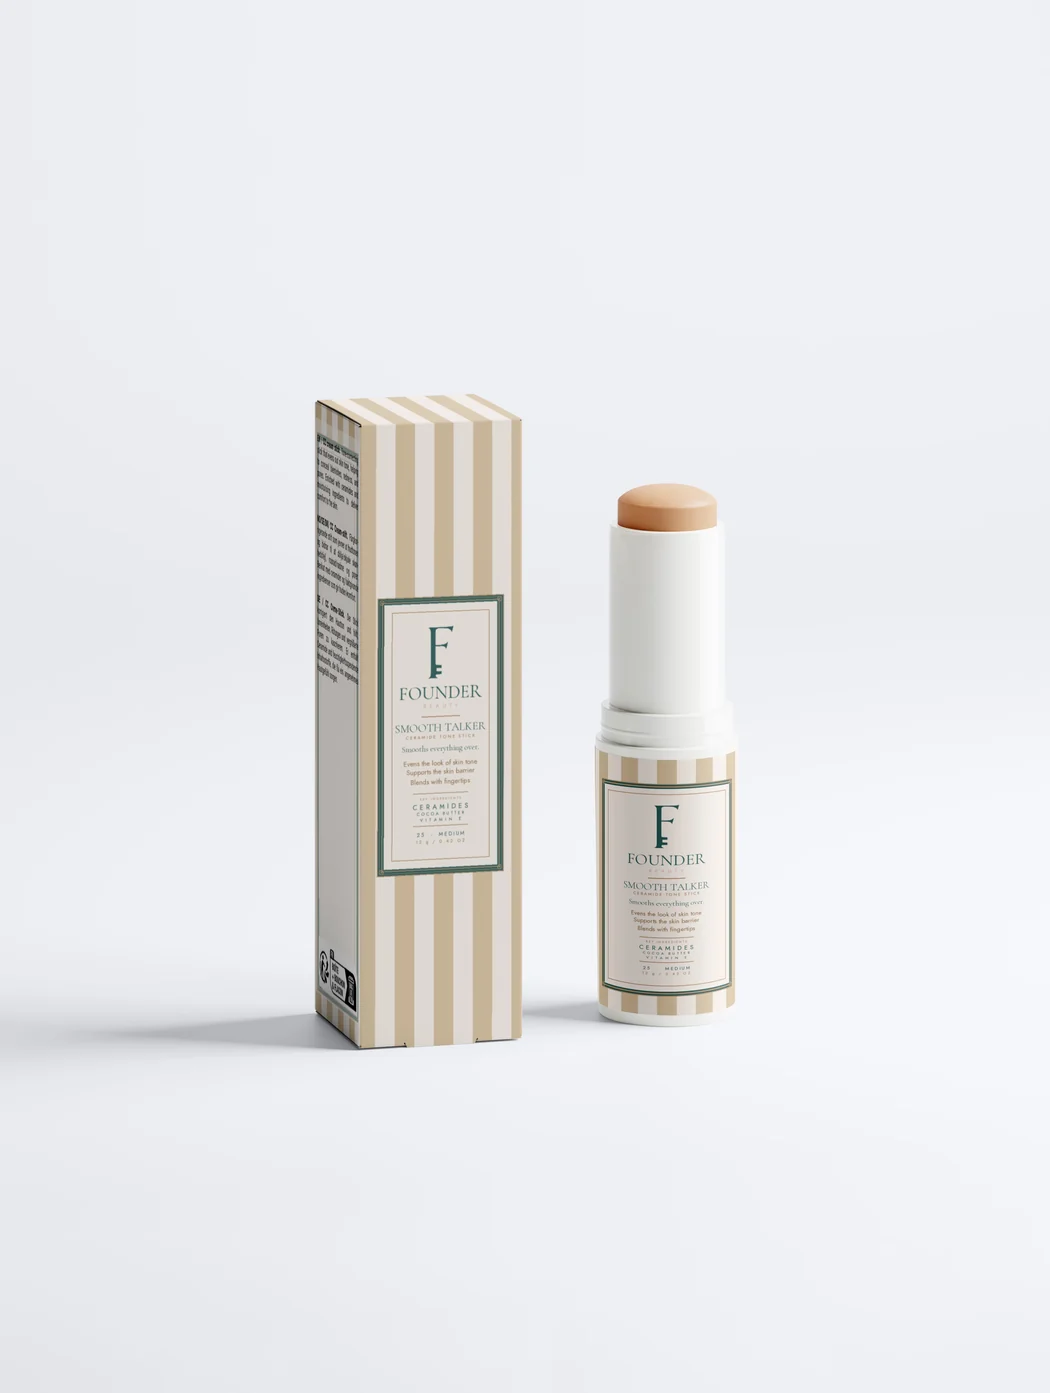
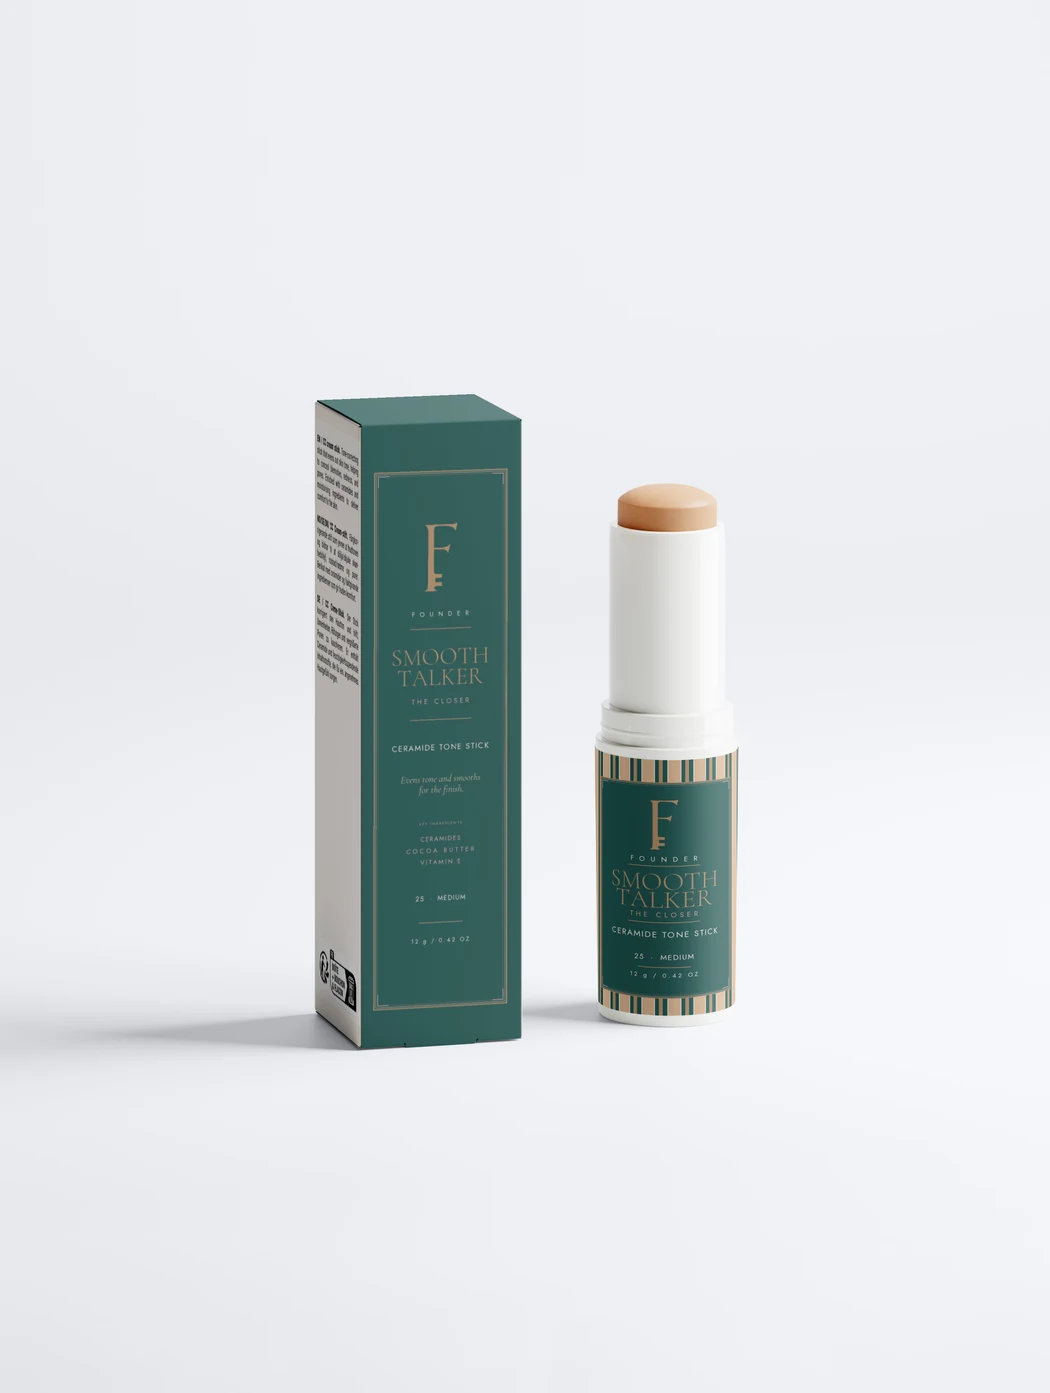
The Room, realigned: every brand face square on its front panel
Selfnamed's studio draws a front-face guide on each artboard. Reading it
off the live DOM showed every bottle lands at ~26.5% of the wrap — and
that HOLD THE ROOM's plaque sat 163 px right of its guide, 7% of the
circumference, about 26 degrees of rotation on the masterpiece. Every
plaque is now centred on its own guide to within a pixel.

Three things fell out of the same audit:

- HOLD THE ROOM's name is set HOLD / THE / ROOM. caps_lines fits a name
  by its widest line, so "THE ROOM" dragged the whole name to 4.0 mm
  against 5.5 mm on its two siblings. Three lines reach 4.9 mm in the
  same plaque.
- DOUBLE TAKE was the only near-square brand face in the line and its
  type filled 46% of the plaque width. Narrowed to a portrait; the type
  now meets the frame at 70%.
- The DOUBLE TAKE carton frame was 72.6% of its panel where the other
  two were 82.2%. Widened to match.

Packshots rebuilt from the regenerated Selfnamed renders, plus a new
three-shade SMOOTH TALKER family shot cut from the stick renders.
Per-product stripe tokens corrected to the ritual-step accent on Founder
Green — Opening Line and Double Take were still carrying pairs from the
all-pink exploration.

Claude-Session: https://claude.ai/code/session_01Ur261Wsau2RympRHJCG9oK

Changed region(s): [[0.3048, 0.2778, 0.5181, 0.7717], [0.5486, 0.5248, 0.701, 0.7408]]

diff --git a/src/lib/nextMove.ts b/src/lib/nextMove.ts
@@ -192,11 +192,11 @@ export const NEXT_MOVE: NextMoveProduct[] = [
       "Vegan",
     ],
     cta: "Open the day",
-    stripes: { a: "var(--color-rose)", b: "var(--color-founder-green)" },
+    stripes: { a: "var(--color-cream)", b: "var(--color-founder-green)" },
     ink: "var(--color-founder-green)",
     pack: {
       src: "/products/opening-line-pack.webp",
-      alt: "The Opening Line bottle: a white airless pump in desert rose and green stripes, its cream label reading Opening Line, oil-to-milk cleanser.",
+      alt: "The Opening Line bottle: a white airless pump wrapped in cream and Founder Green stripes, a deep green plaque at the front reading Opening Line, the opener, oil-to-milk cleanser.",
     },
     scene: {
       src: "/products/opening-line-vanity.webp",
@@ -233,7 +233,7 @@ export const NEXT_MOVE: NextMoveProduct[] = [
     ink: "var(--color-founder-green)",
     pack: {
       src: "/products/clean-break-pack.webp",
-      alt: "The Clean Break bottle: a white pump bottle in deep green and cream stripes, its cream label framed in green, reading Clean Break, purifying face wash.",
+      alt: "The Clean Break bottle: a white pump bottle wrapped in cream and Founder Green stripes, a deep green plaque at the front reading Clean Break, the reset, purifying face wash.",
     },
     scene: {
       src: "/products/clean-break-scene.webp",
@@ -314,11 +314,11 @@ export const NEXT_MOVE: NextMoveProduct[] = [
       alt: "FOUNDER Smooth Talker Ceramide Tone Stick in 25 MEDIUM beside its warm beige and cream striped carton on a brass side table.",
     },
     cta: "Make your move",
-    stripes: { a: "var(--color-cream)", b: "var(--color-champagne)" },
+    stripes: { a: "var(--color-champagne)", b: "var(--color-founder-green)" },
     ink: "var(--color-founder-green)",
     pack: {
-      src: "/products/smooth-talker-shades-closet.webp",
-      alt: "The three Smooth Talker shades lined up in the FOUNDER dressing closet.",
+      src: "/products/smooth-talker-shades-pack.webp",
+      alt: "The three Smooth Talker shades side by side — 20 Light, 25 Medium and 35 Deep — each stick wrapped in stripes the colour of the shade inside it.",
     },
     /* The family shot leads now: a card showing one shade of a three-shade
        product tells a customer the wrong thing before she ever clicks. */
@@ -360,11 +360,11 @@ export const NEXT_MOVE: NextMoveProduct[] = [
       "Vegan",
     ],
     cta: "Make them look twice",
-    stripes: { a: "var(--color-blush)", b: "var(--color-rose)" },
+    stripes: { a: "var(--color-rose)", b: "var(--color-founder-green)" },
     ink: "var(--color-founder-green)",
     pack: {
       src: "/products/double-take-pack.webp",
-      alt: "The Double Take airless pump bottle and its carton in blush and rose stripes, the cream label reading Double Take, peptide eye cream.",
+      alt: "The Double Take airless pump bottle beside its Founder Green carton, the bottle wrapped in desert rose and green stripes, its plaque reading Double Take, the second look, peptide eye cream.",
     },
     scene: {
       src: "/products/double-take-scene.webp",

diff --git a/src/lib/founderCollection.ts b/src/lib/founderCollection.ts
@@ -143,9 +143,9 @@ export const FOUNDER_COLLECTION: FounderProduct[] = [
       "Anthemis Nobilis Flower Oil",
     ],
     origin: "Made in North America.",
-    bottle: "/products/hold-the-room-bottle.png",
+    bottle: "/products/hold-the-room-pack.webp",
     bottleAlt:
-      "The Hold the Room airless pump bottle, black cap and base with a frosted white body, FOUNDER BEAUTY on the front.",
+      "The Hold the Room airless pump bottle beside its Founder Green carton, the bottle wrapped in desert rose and green stripes, its plaque reading Hold the Room, the anchor, peptide moisturizing cream.",
     howToUse: [
       {
         step: "Clean skin first",
